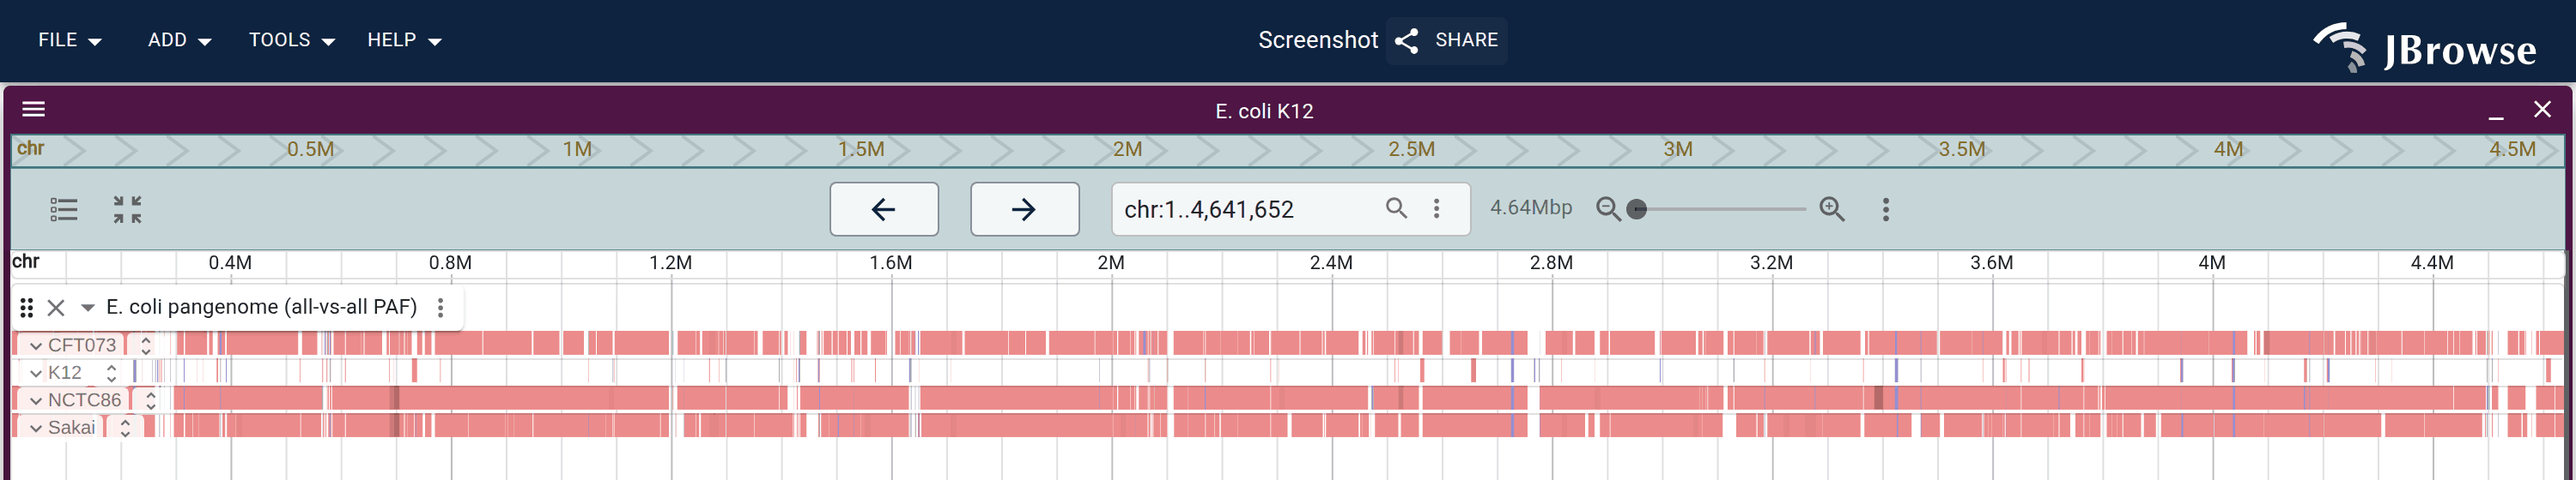
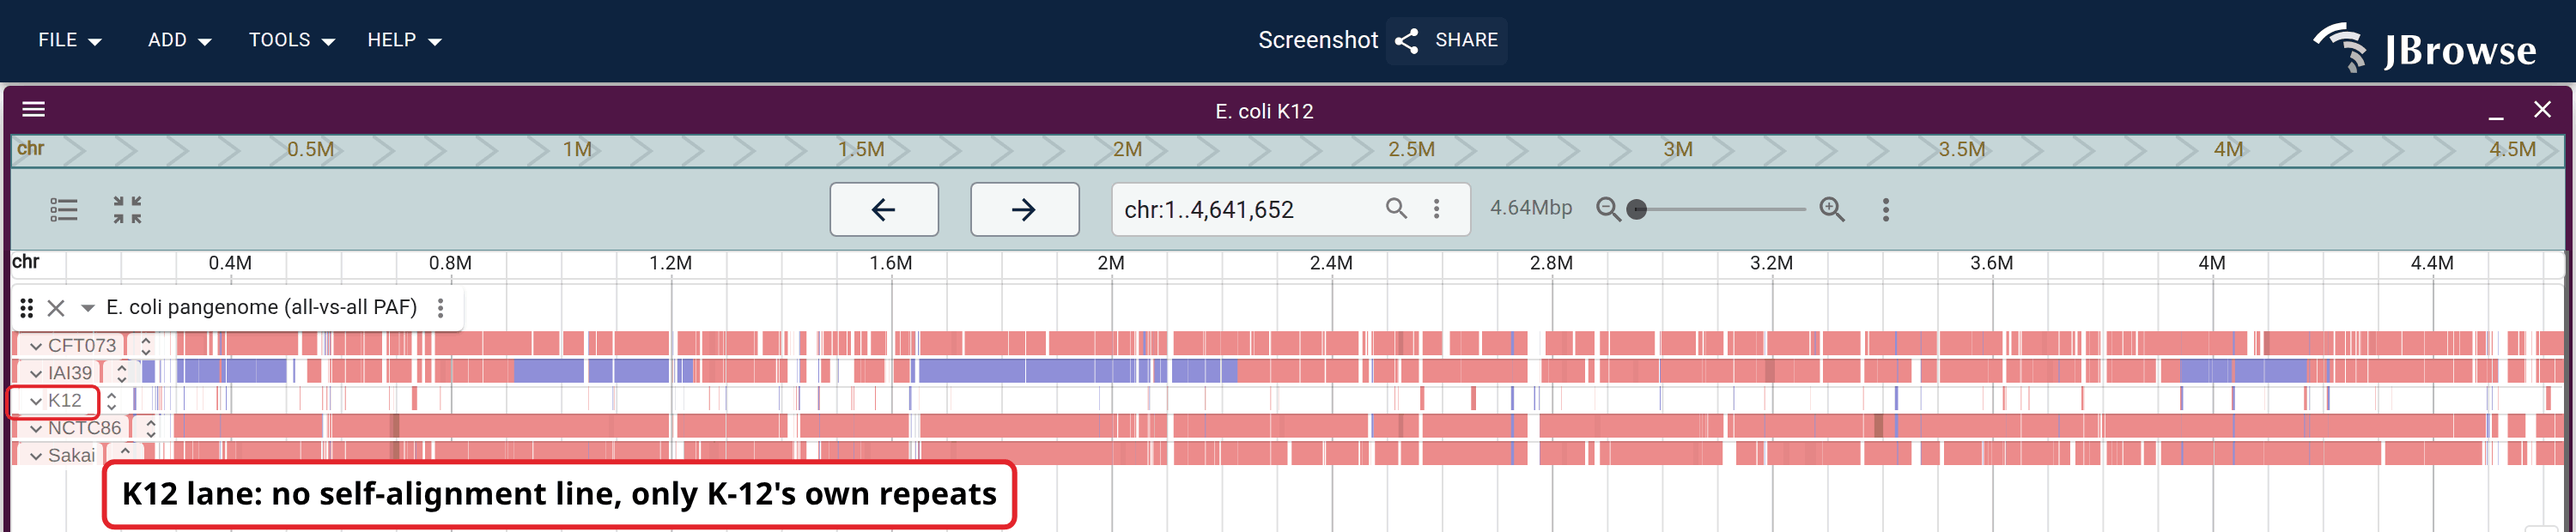
fix(website): explain the empty K12 lane in the one-vs-all figures
Reviewers asked twice, on both figures, why K-12 has no line where it aligns
to itself. It cannot: all_vs_all.paf is built with `minimap2 -X`, which skips
each sequence's own diagonal, so the K12 lane can only ever hold K-12's
internal paralogy — the insD2/insC2/insI2 IS copies at the right edge of the
zoomed window, and near-nothing across the whole chromosome.

Both figures now box the K12 lane label and carry a one-line callout in the
track's own empty area below the lanes (viewportHeight raised so the pill
covers no lane; the 16px lane pitch has no room for one). Both captions state
the -X reason rather than only calling it "own paralogy", which is what kept
reading as missing data.

Includes the concurrent five-genome retune of these two specs (height 110 ->
135 and the IAI39 caption clause), without which the regenerated PNGs would
not match the committed spec.

diff --git a/website/scripts/specs/synteny.ts b/website/scripts/specs/synteny.ts
@@ -505,25 +505,51 @@ export const syntenySpecs: ScreenshotSpec[] = [
                 // lane STOPS, and a 7px bar makes that a hairline.
                 featureHeight: 14,
                 // One row per strain (the LGVSyntenyDisplay default), so the
-                // track is its four lanes and nothing else. Stacked, the same
-                // four groups needed 210px, almost all of it empty: the row
+                // track is its five lanes and nothing else. Stacked, four
+                // groups already needed 210px, almost all of it empty: the row
                 // count came from the IS-element pile at the right edge, not
                 // from the synteny anyone is looking at.
-                height: 110,
+                height: 135,
               },
             ],
           },
         ],
       },
     ),
-    viewportHeight: 432,
+    // taller than the lanes need, so the callout below sits in the track's own
+    // empty area rather than over a lane (16px pitch leaves no room for a pill)
+    viewportHeight: 460,
     readySelector: '[data-testid="pileup-display-done"]',
     readyTimeout: 120000,
     settleMs: 12000,
-    // No on-image callout. The stacked version needed one to explain that the
-    // scattered bars were four per-strain sections; four labelled lanes 16px
-    // apart say it themselves, and at this density any text box drawn over the
-    // track covers a lane. "One track, one lane per strain" moved to the caption.
+    // The one thing the figure cannot say for itself: reviewers keep asking why
+    // K-12 has no line against itself. It cannot — all_vs_all.paf is built with
+    // `minimap2 -X`, which skips each sequence's own diagonal, so the K12 lane
+    // holds only K-12's internal paralogy (the IS copies at the right edge).
+    // Box the lane label, keep the reason in one line, leave the rest to the
+    // caption. No arrow: the label is at the far left, so a line to it would
+    // cross the other lanes' labels.
+    annotations: [
+      // the lane labels are 16px apart, so the default box (element + 6px pad,
+      // ~30px tall) swallows its neighbours' labels: pin it to the label's own
+      // height and thin the stroke
+      {
+        type: 'box',
+        anchor: { text: 'K12' },
+        height: 19,
+        dy: 5,
+        strokeWidth: 2,
+      },
+      {
+        type: 'text',
+        fontSize: 18,
+        maxWidth: 520,
+        anchor: { text: 'K12' },
+        dx: 40,
+        dy: 60,
+        text: "K12 lane: no self-alignment line, only K-12's own repeats",
+      },
+    ],
   },
 
   // The whole-genome end of the same "One strain against all the others"
@@ -584,19 +610,43 @@ export const syntenySpecs: ScreenshotSpec[] = [
                 // the WHITE, and a 3px gap in a 7px bar is not a gap anyone
                 // sees. 14px lanes make each strain-specific stretch read.
                 featureHeight: 14,
-                // four lanes, one row each — sized to them, so the figure is
+                // five lanes, one row each — sized to them, so the figure is
                 // the lanes rather than mostly empty track
-                height: 110,
+                height: 135,
               },
             ],
           },
         ],
       },
     ),
-    viewportHeight: 280,
+    // room below the lanes for the same self-alignment callout as the zoomed
+    // figure above (see its comment); at 4.6 Mb the empty K12 lane is the first
+    // thing a reader asks about
+    viewportHeight: 310,
     readySelector: '[data-testid="pileup-display-done"]',
     readyTimeout: 120000,
     settleMs: 15000,
+    annotations: [
+      // the lane labels are 16px apart, so the default box (element + 6px pad,
+      // ~30px tall) swallows its neighbours' labels: pin it to the label's own
+      // height and thin the stroke
+      {
+        type: 'box',
+        anchor: { text: 'K12' },
+        height: 19,
+        dy: 5,
+        strokeWidth: 2,
+      },
+      {
+        type: 'text',
+        fontSize: 18,
+        maxWidth: 520,
+        anchor: { text: 'K12' },
+        dx: 40,
+        dy: 60,
+        text: "K12 lane: no self-alignment line, only K-12's own repeats",
+      },
+    ],
   },
 
   // The Linear synteny view import form for the allvsall_synteny.md "From the

diff --git a/website/docs/tutorials/allvsall_synteny.md b/website/docs/tutorials/allvsall_synteny.md
@@ -362,7 +362,7 @@ pileup, so the rest of that menu is the one you already know from alignments:
 **Show... > Show coverage**, for instance, adds a histogram of how many other
 strains cover each base of the strain you are viewing.
 
-<Figure caption="One track, one lane per strain: K-12 against every other sample in the file, grouped by mate assembly. The shaded band is K-12's phenylacetate (paa) operon. Sakai and CFT073 both stop at its left edge, NCTC86 runs straight through, and the K12 lane is K-12's own paralogy. The near-black blocks just right of the band are the insD2/insC2/insI2 IS elements, where enough alignments overlap to saturate the shading." src="/img/multiway_synteny/ecoli_one_vs_all.png" />
+<Figure caption="One track, one lane per strain: K-12 against every other sample in the file, grouped by mate assembly. The shaded band is K-12's phenylacetate (paa) operon. Sakai, CFT073 and IAI39 all stop at its left edge and NCTC86 runs straight through. The K12 lane carries no full-length line because minimap2 -X dropped each genome's self-diagonal, so what draws there is K-12's own paralogy: the near-black insD2/insC2/insI2 IS-element blocks just right of the band, where enough alignments overlap to saturate the shading." src="/img/multiway_synteny/ecoli_one_vs_all.png" />
 
 The same mode zoomed out to the whole chromosome gives a per-strain overview of
 where each one diverges. At this size the whole PAF is in memory on every pan;
@@ -370,7 +370,7 @@ for a real pangenome, index it first with
 [make-pif](#large-files-index-with-make-pif) so each screen is a tabix range
 query instead:
 
-<Figure caption="The same track and the same four lanes, zoomed out to K-12's whole 4.64 Mb. The white gaps fall in different places in each lane, so each strain breaks from the K-12 backbone somewhere the others do not." src="/img/multiway_synteny/ecoli_one_vs_all_whole_genome.png" />
+<Figure caption="The same track and the same five lanes, zoomed out to K-12's whole 4.64 Mb. The white gaps fall in different places in each lane, so each strain breaks from the K-12 backbone somewhere the others do not. The blue stretches in the IAI39 lane are its large inversions relative to K-12. The K12 lane is near-empty for the same reason as above: minimap2 -X keeps no self-diagonal, so only K-12's internal repeats draw." src="/img/multiway_synteny/ecoli_one_vs_all_whole_genome.png" />
 
 ## Reproduce it end to end
 
